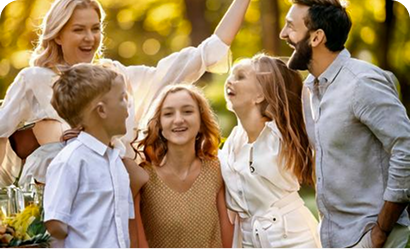
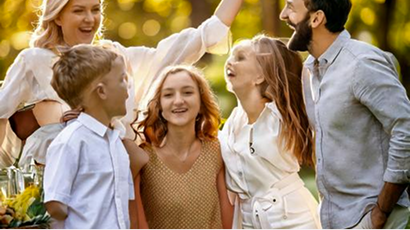
Layout responsive angepasst, kleine width mit großer height gibt Probleme, sonst perfekt

diff --git a/sonar/sonar-frontend/src/components/modules/EventCardModule/EventCardModule.scss b/sonar/sonar-frontend/src/components/modules/EventCardModule/EventCardModule.scss
@@ -1,68 +1,77 @@
 @use "../../../assets/scss/_variables.scss" as var;
 
 .sonar-eventcard{
-    min-height: 450px;
-    width: 21vw;
-    //max-width: 345px; //22vw
-    min-width: 345px;
+    //min-height: 450px;
+    min-height: 60vh;
+    min-width: var.$appWidth;
+    max-width: 40vw;
     z-index: 5;
-    margin-bottom: 20px; //7%
-    border-radius: 7vh !important;
+    margin-bottom: 2.7vh;
+    border-radius: 4vh !important;
 }
 
 .sonar-eventcard_top-icon {
     background: white;
-    width: 36px; //2.3vw
-    height: 36px; //2.3vw
-    border-radius: 50px; //100%
+    width: 4.7vh; //36px
+    height: 4.7vh; //36px
+    border-radius: 100%; //100%
+    margin-left: 1vw !important;
     display: flex;
     justify-content: center;
     position: relative;
     left: 0;
 }
 .sonar-eventcard_top-icon > button{
-    width: 36px; //2.3vw
-    height: 36px; //2.3vw
+    width: 4.7vh; //36px
+    height: 4.7vh; //36px
     min-width: 36px; //2.3vw
-    border-radius: 50px; //100%
+    border-radius: 100%;
+    padding: 0.6vh 0.7vw 0.6vh 0.7vw;
+    svg{
+        font-size: 3.1vh;
+    }
 }
 .sonar-eventcard_top-details{
     background: white;
-    width: 80px; //5vw
-    height: 36px; //2.3vw
-    border-radius: 50px; //3vh
+    width: 10vh; //80px
+    height: 4.7vh; //36px
+    border-radius: 3vh; //50px
     display: flex;
     justify-content: center;
     position: relative;
-    left: 49%;
+    margin-right: 1vw !important;
 }
 .sonar-eventcard_top-details > button{
-    width: 80px; //5vw
-    height: 36px; //2.3vw
-    border-radius: 50px; //3vh
+    width: auto; //5vw
+    height: 4.5vh; //2.3vw
+    border-radius: 3vh; //50px
+    font-size: 1.8vh;
 }
 .sonar-eventcard_top-icons {
     position: relative;
     z-index: 5;
-
+    width: 100%;
+    height: 13.5%;
+    padding: 1vh 0 0 0 !important;
 }
 .sonar-eventcard_tags{
     position: relative;
-    top:390%;
+    top:23vh;
     z-index: 5;
+    padding: 1vh !important;
 }
 
 .sonar-eventcard_tag-icon{
     max-width: 50%; //10vw
     height: auto;
-    border-radius: 6px; //1vh
+    border-radius: 1vh;
     display: flex;
     justify-content: center;
     position: relative;
     left: 0;
     label{
-        font-size: 15px; //2.2vh
-        margin: 2px 5px 2px 5px; //0.3vh 0.33vw 0.3vh 0.33vw
+        font-size: 1.9vh;
+        margin: 0.27vh 0.65vw 0.27vh 0.65vw; //0.3vh 0.33vw 0.3vh 0.33vw
         font-weight: bolder;
         color: white;
         //max-width: 9vw;
@@ -74,49 +83,73 @@
 }
 .sonar-eventcard_tag-icon-registration{
     background: forestgreen;
+    margin-left: 1vw !important;
 }
 
 .sonar-eventcard_media {
     position: relative;
-    top: -66px; //-10vh
-    left: -16px; //-1.1vw
-    height: 300px; //42.5vh
-    width: 345px !important; //22.1vw !important
+    display: flex !important;
+    //top: -8.6vh; //-66px
+    //left: -16px; //-1.1vw
+    height: 35vh; // 35vh || 300px
+    width: 100% !important; //345px !important
+}
+
+.sonar-eventcard_media-div {
+    position: absolute;
+    width: 100%;
 }
 
 .sonar-eventcard_header{
-    height: 50px; //7vh
+    height: 100%; //50px
     z-index: 10;
     border-radius: 30vh;
+    top: 0;
+    left: 0;
+    position: absolute;
+    width: 100%;
 }
 
 .sonar-eventcard_content{
-    height: 400px; //56.8vh
+    height: 42%;
+    position: relative;
+    top: 35vh;
     padding: 0 !important;
 }
 
 .sonar-eventcard_content_text {
     position: relative;
-    bottom: 50px; //7vh
-    padding: 10px 20px 0 20px; //1.4vh 1.3vw 0 1.3vw
+    padding: 1.3vh 2.5vw 0 2.5vw;
 
 }
 
 .sonar-eventcard_content_text-title{
     color: green;
-    margin: 0 0 8px 0; // 0 0 1.1vh 0
-    font-size: 20px; //2.8vh
+    margin: 0 0 1.1vh 0; // 0 0 1.1vh 0
+    font-size: 2.6vh;
     font-weight: bolder;
 }
 .sonar-eventcard_content_text-date{
     color: black;
-    font-size: 15px; //2.1vh
+    font-size: 1.96vh;
     margin: 0;
     font-weight: bold;
 }
 .sonar-eventcard_content_text-costs{
     color: rebeccapurple;
-    font-size: 15px; //2.1vh
+    font-size: 1.96vh;
     margin: 0;
     font-weight: bolder;
+}
+
+.sonar-eventcard_container {
+    height: 100%;
+    position: relative;
+}
+
+#sonar-eventcard_content_text-div{
+    padding: 2.1vh 2vw 3.1vh 2vw;
+}
+#sonar-eventcard_top-icon-buffer{
+    width: 100%;
 }

diff --git a/sonar/sonar-frontend/src/components/modules/EventCardModule/EventCardModule.jsx b/sonar/sonar-frontend/src/components/modules/EventCardModule/EventCardModule.jsx
@@ -18,36 +18,40 @@ export default function EventCardModule({title, date, costs, image}) {
     return (
         <Card className="sonar-eventcard">
             <div className="sonar-eventcard_container">
-                <div className="sonar-eventcard_header">
-                    <CardActions className="sonar-eventcard_top-icons">
-                        <div className="sonar-eventcard_top-icon">
-                            <Button size="small"><ShareIcon/></Button>
-                        </div>
-                        <div className="sonar-eventcard_top-icon">
-                            <Button size="small"><BookmarkIcon/></Button>
-                        </div>
-                        <div className="sonar-eventcard_top-details">
-                            <Button size="small">Details</Button>
-                        </div>
-                    </CardActions>
-                    <CardActions className="sonar-eventcard_tags">
-                        <div className="sonar-eventcard_tag-icon sonar-eventcard_tag-icon-date">
-                            <label>Heudde</label>
-                        </div>
-                        <div className="sonar-eventcard_tag-icon sonar-eventcard_tag-icon-registration">
-                            <label>Ausjebuucht</label>
-                        </div>
-                    </CardActions>
+                <div className="sonar-eventcard_media-div">
+                    <CardMedia className="sonar-eventcard_media"
+                               component="img"
+                               alt="family"
+                               image={image}
+                    />
+                    <div className="sonar-eventcard_header">
+                        <CardActions className="sonar-eventcard_top-icons">
+                            <div className="sonar-eventcard_top-icon">
+                                <Button size="small"><ShareIcon/></Button>
+                            </div>
+                            <div className="sonar-eventcard_top-icon">
+                                <Button size="small"><BookmarkIcon/></Button>
+                            </div>
+                            <div id="sonar-eventcard_top-icon-buffer"></div>
+                            <div className="sonar-eventcard_top-details">
+                                <Button size="small">Details</Button>
+                            </div>
+                        </CardActions>
+                        <CardActions className="sonar-eventcard_tags">
+                            <div className="sonar-eventcard_tag-icon sonar-eventcard_tag-icon-date">
+                                <label>Heudde</label>
+                            </div>
+                            <div className="sonar-eventcard_tag-icon sonar-eventcard_tag-icon-registration">
+                                <label>Ausjebuucht</label>
+                            </div>
+                        </CardActions>
+                    </div>
                 </div>
 
                 <div className="sonar-eventcard_content">
 
-                    <CardContent>
-                        <CardMedia className="sonar-eventcard_media"
-                                   component="img"
-                                   alt="family"
-                                   image={image}
-                        />
+                    <CardContent id="sonar-eventcard_content_text-div">
+
                         <div className="sonar-eventcard_content_text">
                             <p className="sonar-eventcard_content_text-title">
                                 {title}

diff --git a/sonar/sonar-frontend/src/components/interface/interfaceFooter/InterfaceFooter.scss b/sonar/sonar-frontend/src/components/interface/interfaceFooter/InterfaceFooter.scss
@@ -14,8 +14,8 @@
   padding: 0 $padding;
 
   &_inner {
-    min-width: 350px;
-    width: 26vw;
+    min-width: var.$appWidth;
+    width: 40vw;
     display: flex;
     align-items: center;
     justify-content: space-between;
@@ -55,9 +55,6 @@
       svg {
         width: 3.2vh; //1.4rem
         height: 3.2vh; //1.4rem
-      }
-      @media(max-width: 350px) {
-        padding: 10px;
       }
       &:hover {
         background-color: var.color(theme, accent);

diff --git a/sonar/sonar-frontend/src/components/interface/interfaceHeader/InterfaceHeader.scss b/sonar/sonar-frontend/src/components/interface/interfaceHeader/InterfaceHeader.scss
@@ -15,8 +15,8 @@
   padding: 0 $padding;
 
   &_inner {
-    min-width: 350px;
-    width: 26vw;
+    min-width: var.$appWidth;
+    width: 40vw;
     display: flex;
     align-items: center;
     justify-content: space-between;
@@ -55,8 +55,9 @@
       cursor: pointer;
 
       svg {
-        width: 1.4rem;
-        height: 1.4rem;
+        width: 3.2vh; //1.4rem
+        height: 3.2vh; //1.4rem
+        color: var.$primary;
       }
     }
 

diff --git a/sonar/sonar-frontend/src/App.scss b/sonar/sonar-frontend/src/App.scss
@@ -38,7 +38,7 @@ button {
   z-index: 1;
   top: 0;
   min-width: var.$appWidth;
-  width: 30vw;
+  width: 40vw;
   height: 100vh;
   display: flex;
   justify-content: flex-start;

diff --git a/sonar/sonar-frontend/src/assets/scss/_variables.scss b/sonar/sonar-frontend/src/assets/scss/_variables.scss
@@ -27,4 +27,4 @@ $colors: (
 }
 
 // SIZES
-$appWidth: 400px;
+$appWidth: 350px;
